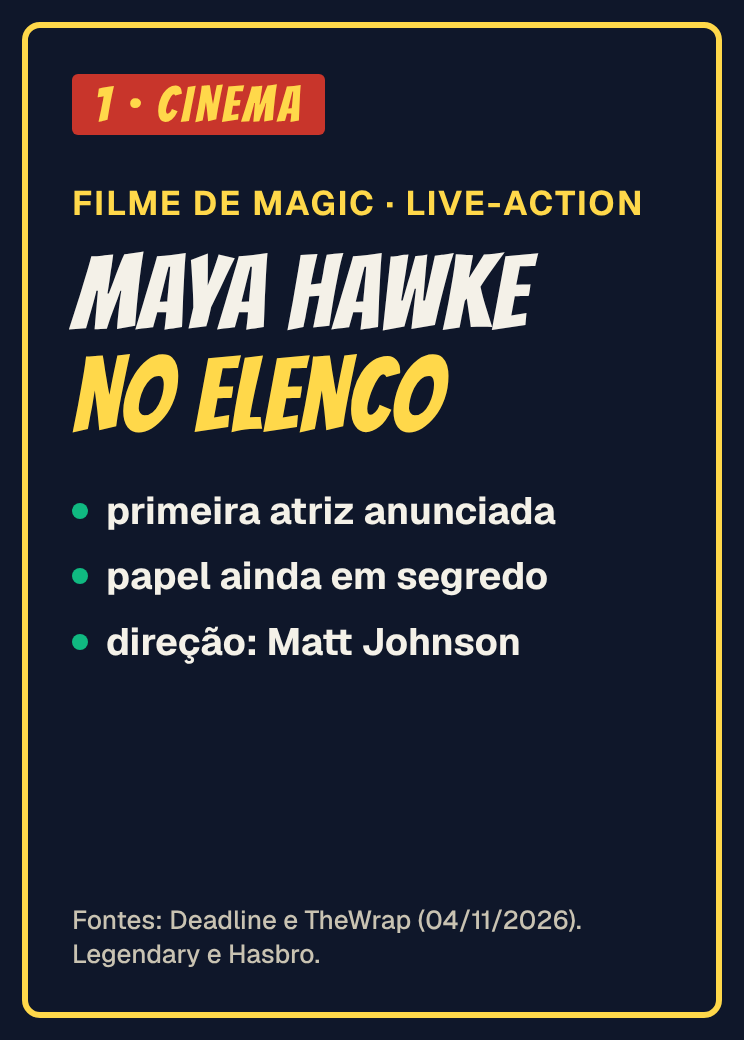
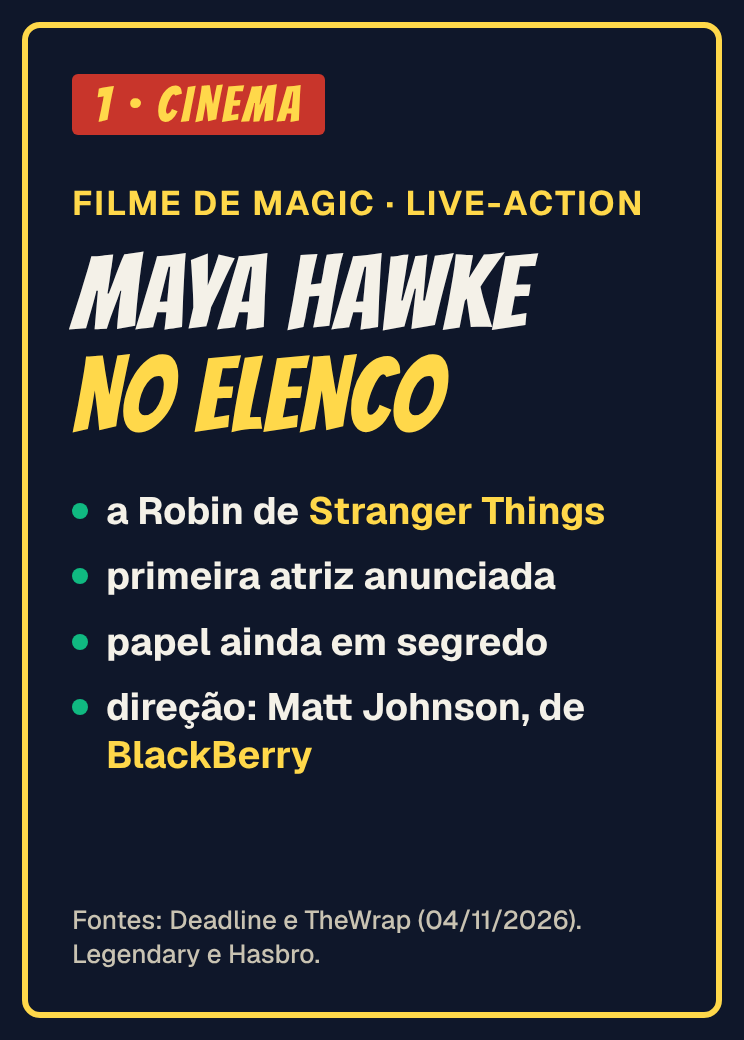
Giro 08/11: calendário da parede em 1996 e identificação das pessoas na tela do cinema
- manaburn/index.html: EP.calendario (por defeito 2019); Giro de 08/11 usa 1996
- tela do cinema: "a Robin de Stranger Things", "Matt Johnson, de BlackBerry"
- ficha, texto alternativo, LEIA-ME do kit e DECISOES

Claude-Session: https://claude.ai/code/session_016gdr9d4RKdSRygctCeXe34

Changed region(s): [[0.0927, 0.4615, 0.8038, 0.7385]]

diff --git a/manaburn/index.html b/manaburn/index.html
@@ -220,7 +220,7 @@ const room = `
  <!-- calendário velho -->
  <g transform="rotate(-6 84 530)"><rect x="40" y="470" width="88" height="118" fill="#E8DFC4" ${S(4)}/>
   <rect x="40" y="470" width="88" height="32" fill="#A8473A" ${S(4)}/>
-  <text x="84" y="495" text-anchor="middle" font-family="Bangers" font-size="24" fill="#F2EBDA">2019</text>
+  <text x="84" y="495" text-anchor="middle" font-family="Bangers" font-size="24" fill="#F2EBDA">${EP.calendario||'2019'}</text>
   ${[0,1,2,3].map(r=>[0,1,2,3].map(c=>`<rect x="${50+c*19}" y="${512+r*17}" width="12" height="9" fill="#B9AA8C"/>`).join('')).join('')}
   <path d="M128 560 L112 588 L128 588 Z" fill="#CFC5A6" ${S(3)}/></g>
  <!-- tomada com benjamim -->

diff --git a/manaburn/giro/2026-11-08/episode.js b/manaburn/giro/2026-11-08/episode.js
@@ -10,6 +10,7 @@ const EP = {
   id: 'giro_2026-11-08',
   bug: 'TV SAL · GIRO DE DOMINGO',
   poster: 'artefato',
+  calendario: '1996',   // ano do calendário da parede (pedido do fundador, 08/11/2026, só neste episódio; o kit continua com 2019 por defeito)
   fx: { foco: true, tremor: true, poster: true, celular: true, scanner: false },
   outro: { assinatura: 'Escaneie suas cartas e organize seus decks.' },
   card: { img: 'cards/giro_abre.png', cred: 'TV SAL · notícias de 02 a 08/11/2026. Fontes na legenda.' },

diff --git a/manaburn/giro/2026-11-08/telas_giro.py b/manaburn/giro/2026-11-08/telas_giro.py
@@ -35,7 +35,7 @@ TELAS = {
   'giro_filme': """<div class="f"><span class="badge">1 · CINEMA</span>
     <div class="k">FILME DE MAGIC · LIVE-ACTION</div>
     <div class="t">MAYA HAWKE<br><em>NO ELENCO</em></div>
-    <ul><li>primeira atriz anunciada</li><li>papel ainda em segredo</li><li>direção: Matt Johnson</li></ul>
+    <ul><li>a Robin de <em style="font-style:normal;color:#FFD84A">Stranger Things</em></li><li>primeira atriz anunciada</li><li>papel ainda em segredo</li><li>direção: Matt Johnson, de <em style="font-style:normal;color:#FFD84A">BlackBerry</em></li></ul>
     <div class="fonte">Fontes: Deadline e TheWrap (04/11/2026). Legendary e Hasbro.</div></div>""",
   'giro_prerelease': """<div class="f"><span class="badge">3 · PRA JOGAR</span>
     <div class="k">MAGIC: THE GATHERING | STAR TREK</div>

diff --git a/manaburn/giro/2026-11-08/ficha.md b/manaburn/giro/2026-11-08/ficha.md
@@ -48,6 +48,7 @@ Ver `ficha_fontes.md`.
 - Corte: as `[long pause]` saíram curtas (~0,3 s) e o `cortes.py` trocou as fronteiras de três falas do Burn. `separar_falas.py` acrescenta 0,7 s de silêncio nas fronteiras certas (transcrição + silêncio real) antes do `process.py`; a voz não muda.
 - Música: midnight_throttle (`manaburn/musica.mp3`). Fecho: `comum/outro/outro_binder_916.mp4` por `juntar_fecho.py` (cópia do Ep. 10).
 - Easter egg: nenhum.
+- Revisão de 08/11 (02:06, pedido do fundador): calendário da parede em **1996** (`EP.calendario`, opção nova do kit; os outros episódios continuam com 2019). Tela do cinema com "a Robin de Stranger Things" e "Matt Johnson, de BlackBerry", para identificar as pessoas. Fotos dos atores: não entram (fotos de pessoas reais tiradas da internet não se usam nas peças).
 
 ## Riscos e limitações
 - Pronúncia: Scribe repete a grafia do prompt, por isso não prova a pronúncia. Ouvir: "Maya Hawke", "Stranger Things", "Matt Johnson", "BlackBerry", "Secret Lair", "Rise of the Polygons", "Young Pyromancer", "Joven", "Borg", "Enterprise-A", "Rakdos", "Sealed", "BINDER".

diff --git a/nucleo/DECISOES.md b/nucleo/DECISOES.md
@@ -2,6 +2,12 @@
 
 Uma entrada por alteração de regra: data · o quê · porquê · impacto. Mais recente no topo.
 
+## 08/11/2026 (02:06) · Calendário da parede configurável (Mana & Burn)
+
+**O quê:** o ano do calendário velho da sala passa a vir de `EP.calendario` (por defeito "2019"). O Giro de 08/11 usa "1996".
+**Porquê:** fundador, 08/11/2026: "mude o calendário na parede para 1996".
+**Impacto:** só o Giro de 08/11 muda; os outros episódios e a sala v3 ficam iguais. Se o fundador quiser 1996 em todos, basta mudar o valor por defeito no `index.html`.
+
 ## 08/11/2026 (00:05) · Burn no plano da TV
 
 **O quê:** correção de um defeito de render, não de modelo: no plano da TV os padrões SVG (cabelo raspado do Burn, xadrez da camisa, papel de parede) saíam transparentes porque os ids repetidos apontavam para o mundo escondido. O plano da TV passa a ter defs próprios (sufixo `_2`). O Burn sobe 40 px atrás da TV e mostra pescoço e ombros com a mesma camisa do plano geral, ligando-se ao braço que aponta.

diff --git a/manaburn/LEIA-ME.md b/manaburn/LEIA-ME.md
@@ -65,6 +65,10 @@ Python 3 (numpy, scipy, Pillow, playwright com Chromium, num2words) e ffmpeg.
 
 Mesa de noite de Commander (decks com sleeves, cartas genéricas, d20, dados, deckboxes) subida 96 px para ficar acima das legendas no plano geral; piso de taco entre rodapé e carpete. Nunca pôr cartas reais na mesa sem crédito.
 
+## Calendário da parede (08/11/2026)
+
+`EP.calendario` muda o ano do calendário velho da parede (por defeito "2019"). Usado no Giro de 08/11 ("1996"), a pedido do fundador.
+
 ## Regras que valem para todo episódio
 
 - Carta real, inteira, rodapé visível, nada por cima. Crédito: "Na TV: {carta} ({coleção}, {ano}), nº {n}. Arte: {artista}. © Wizards of the Coast."
